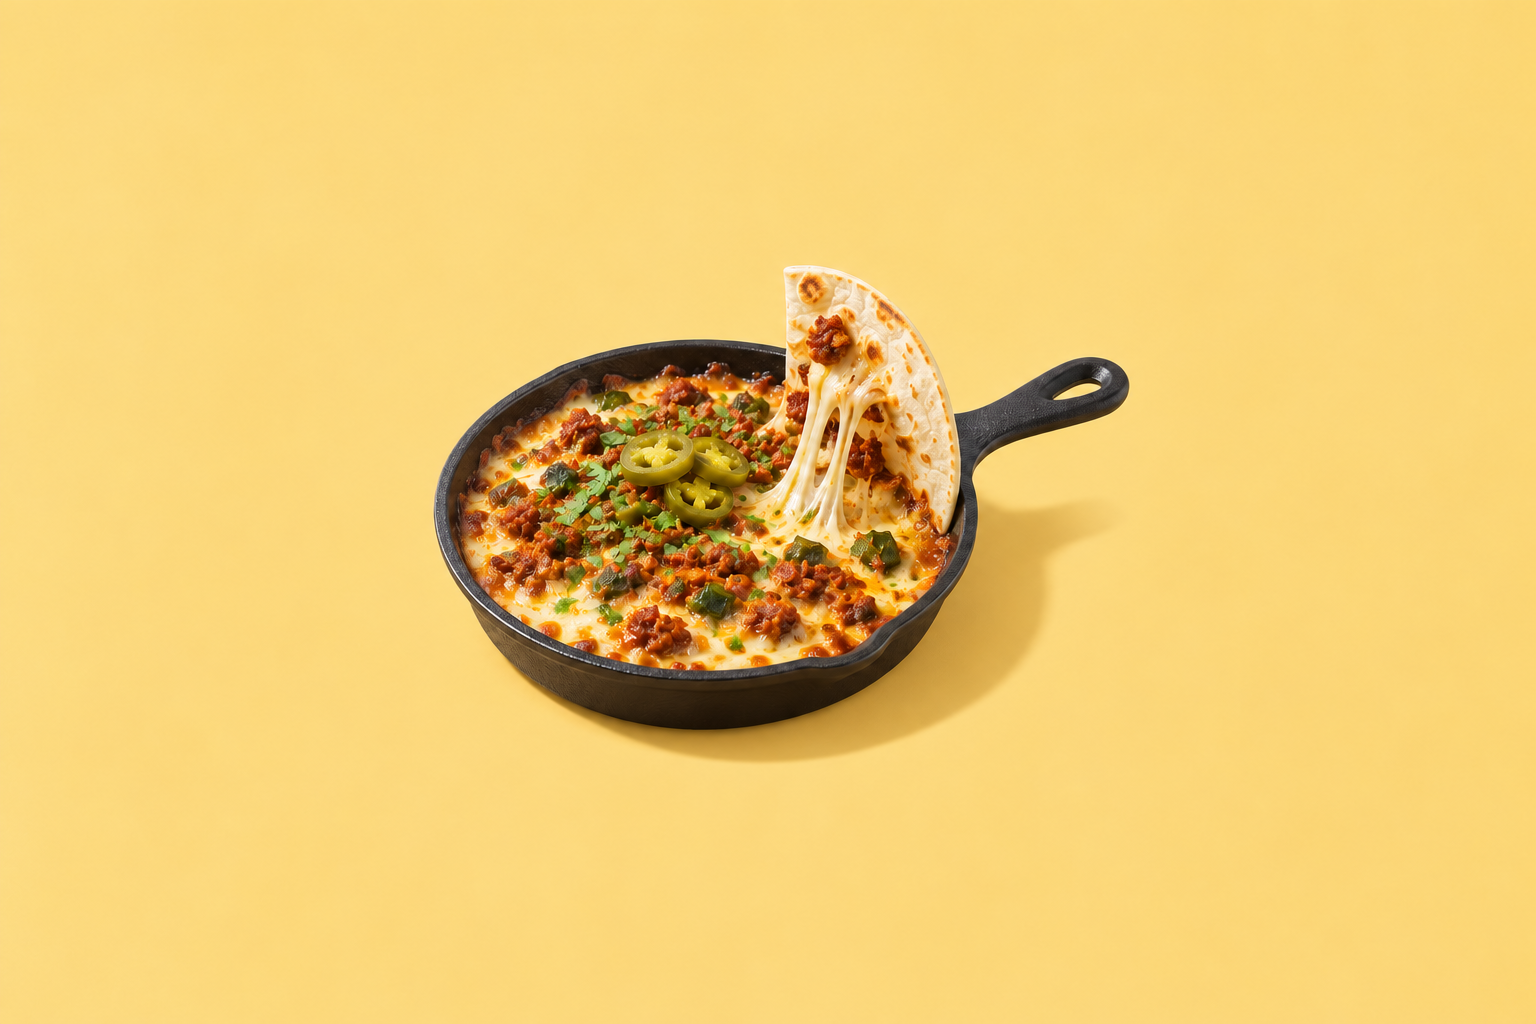
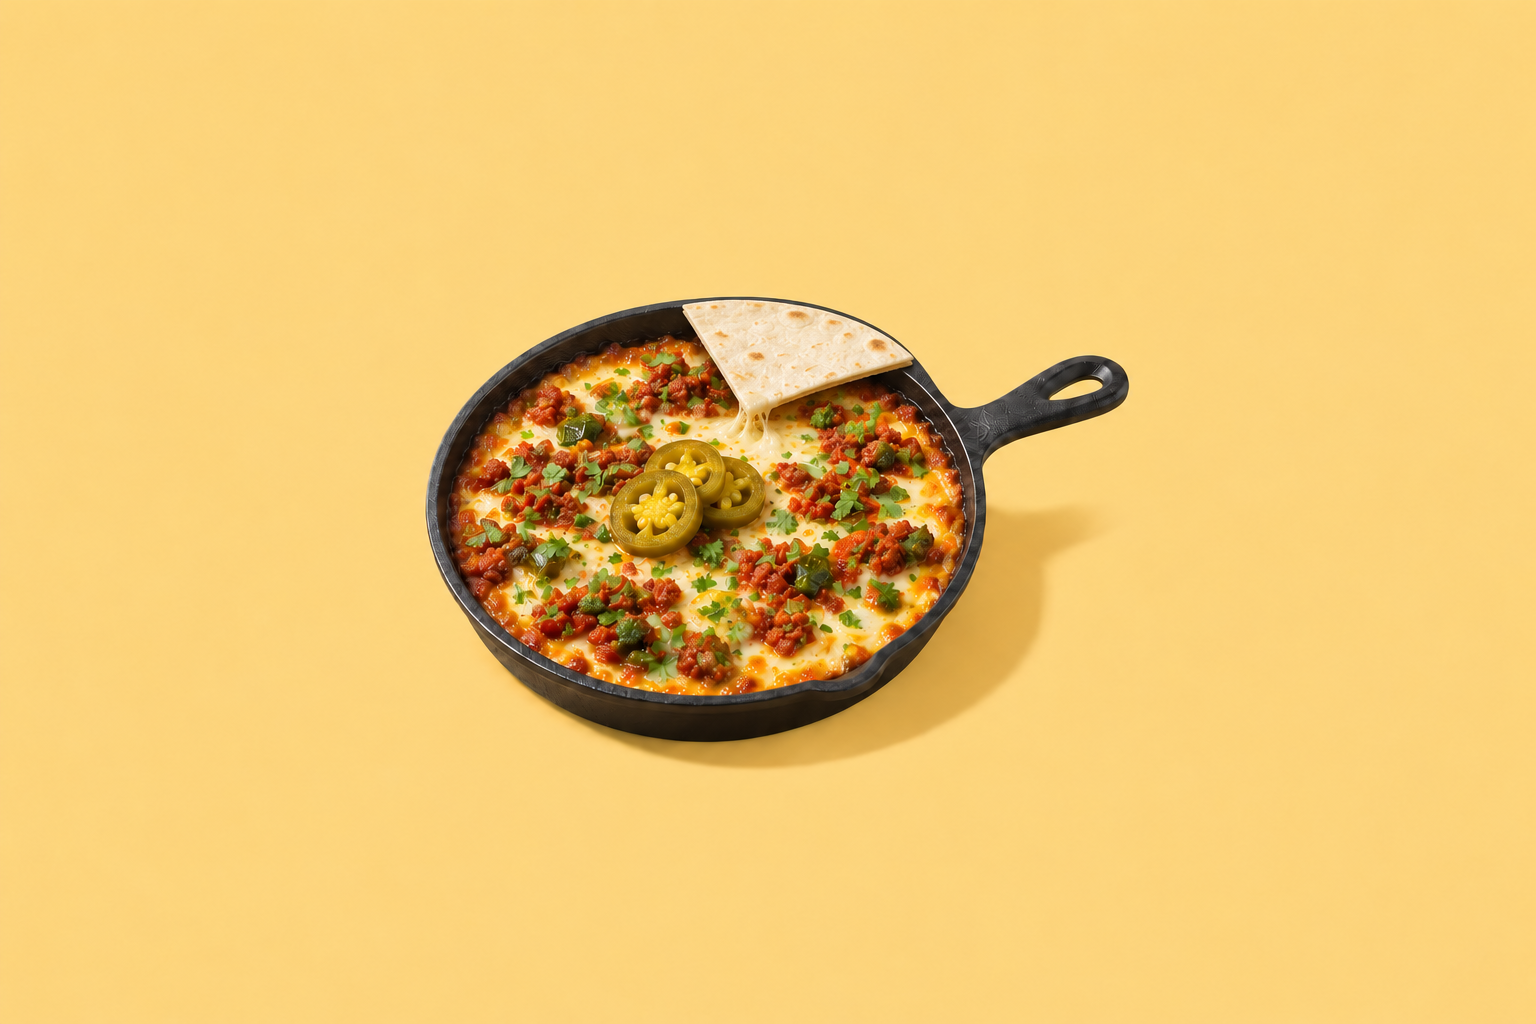
docs: replace batch 10 queso candidate and preserve redo QA evidence

Changed region(s): [[0.25, 0.25, 0.6562, 0.75], [0.6875, 0.3438, 0.7188, 0.4062]]

diff --git a/docs/image-tests/batch-10-redos/source.md b/docs/image-tests/batch-10-redos/source.md
@@ -1,0 +1,14 @@
+# Mise image prompts, batch 10 redo (1 recipe)
+
+Batch 10 is checked and 48 of 49 images pass. One needs remaking: the queso fundido's tortilla stands upright on the skillet with chorizo stuck to it, which reads as propped up rather than food. This redo lays a tortilla wedge almost flat on the rim with a short cheese stretch instead.
+
+Make it alongside the batch 9 redo, before batch 11. Save it on its own branch, images/mise-batch-10-redos-YYYY-MM-DD (today's date), with the same filename.
+
+```text
+Shared style, for every image:
+Bright, true-to-life cookbook photograph. Camera at about 40 degrees, 50mm lens, the whole dish in sharp focus. Soft, even daylight from the upper left, with one short soft shadow to the lower right. Background: a smooth, matte, seamless surface and wall in the backdrop color given for the image, one flat color edge to edge, evenly lit, with no vignette, no gradient, no darker corners and no horizon line. No props: only the dish on the backdrop. Keep any accent color to slate blue (#486B7B) or apricot (#F59443), used on one small thing only. Framing: the dish sits dead centre, left to right and top to bottom, and is about half the frame width, so a tall, narrow crop of the middle half still shows all of it. A tall glass uses height instead, about three quarters of the frame height. Landscape 3:2, 1536 x 1024. Style reference: match the attached reference image for light, white balance, camera height, scale and how flat the backdrop is; change only the dish and the backdrop color, and leave out its props. Fresh, lively and appetizing, natural color, bright and airy. Avoid: steam, smoke or vapour of any kind, text, logos, hands, people, dark or moody light, wooden tables, marble, patterned surfaces, props, cutlery, napkins, garnishes not listed for the dish, cartoon or illustration style, plastic-looking food, exaggerated saturation.
+
+1. queso-fundido-with-chorizo.png
+Dish: Queso Fundido with Chorizo (Mexican melted cheese with chorizo). The dish: a small cast-iron skillet of molten, bubbly melted Oaxaca cheese topped with browned crumbled chorizo, diced roasted poblano and chopped cilantro, with one wedge of warm flour tortilla lying almost flat on the far rim of the skillet, its tip dipped into the cheese, and a few short glossy strands of melted cheese stretching from the tip back to the pool. The tortilla rests on the rim under its own weight: it does not stand upright, float or hold any topping. Show the gooey, stretchy cheese and the red-brown chorizo. Texture: molten, stretchy, gooey cheese with crisp chorizo crumbles. Colors: creamy white cheese, red-orange chorizo, green poblano and cilantro. Serving dish: a small round cast-iron skillet. Garnish, and nothing else on the food: chopped cilantro and pickled jalapeños. Setting: a Mexican appetizer night. Backdrop: butter yellow (#F9D27E). Moment: straight from the oven, molten. Framing: the skillet, handle included, is about half the frame width, centered, with the whole skillet and handle inside the middle half of the frame.
+```
+

diff --git a/docs/image-tests/batch-10/README.md b/docs/image-tests/batch-10/README.md
@@ -19,3 +19,7 @@ The original [margarita reference](https://github.com/jsilton/mise/blob/images/m
 65 generation calls for 49 finals (16 remakes), in concurrent groups of 22, 26 and 17 calls. Production and coordinator QA ran approximately 15:06–15:38 UTC on 2026-11-02, about 32 wall minutes including generation tool waits, with no intentional pause. Packaging, independent root review, Library and Git persistence are separate stages.
 
 Exact prompts, hashes and source/generation provenance are included. Six `review/` sheets show full frames and actual middle-half crops in groups 1–17, 18–33 and 34–49. Root independently reviewed all six sheets and checked the source-required queso tortilla pose at approximately 15:40 UTC. These remain review candidates, not user acceptance. Final coordination and independent review added about two minutes after production; persistence follows separately.
+
+## Current queso replacement review — 2026-11-03
+
+This redo branch replaces only queso-fundido-with-chorizo.png. See [redo review](../batch-10-redos/README.md) and [replacement hashes and QA](../batch-10-redos/qa-manifest.json). Tortilla lies flat and bare; the complete skillet handle fits the central-half crop. Stronger-shadow note retained. The other 48 images are unchanged. Original batch sheets and root QA manifest are historical evidence for the original queso, not current replacement hashes/results. Review-branch saving is not site application.

diff --git a/docs/image-tests/batch-10-redos/README.md b/docs/image-tests/batch-10-redos/README.md
@@ -1,0 +1,9 @@
+# Mise batch 10 redo — Queso Fundido
+
+One review replacement. A bare tortilla wedge lies almost flat on the far skillet rim, with its tip dipped into the cheese and short strands attached. It no longer stands upright or carries toppings. Complete skillet and handle fit the central-half crop; width approximately 45.6%. Full/crop review found no material flags. Localized shadows remain a little stronger than ideal.
+
+[Source redo](https://github.com/jsilton/mise/blob/0c8242b27d4e1d12d6783df48ee132b6fea36a72/docs/image-prompts/batch-10-redo.md), blob `687e2e92f321381660fea6a3d30e5145c9868226`.
+
+Two built-in calls, one remake. Original margarita attached every call. Exact final PNG is 1536×1024, unchanged generated bytes; review crops are derived. Production and coordinator QA approximately 00:53–00:59 UTC on 2026-11-03, including tool waits. Root independently reviewed full frame and crop at approximately 01:00 UTC and approved saving the replacement with the minor shadow note.
+
+Save on a new review branch only; preserve historical batch 10. No merge, deployment, PR or recipe mapping. Review QA is not user acceptance. Other 48 batch 10 images remain accepted and untouched.
